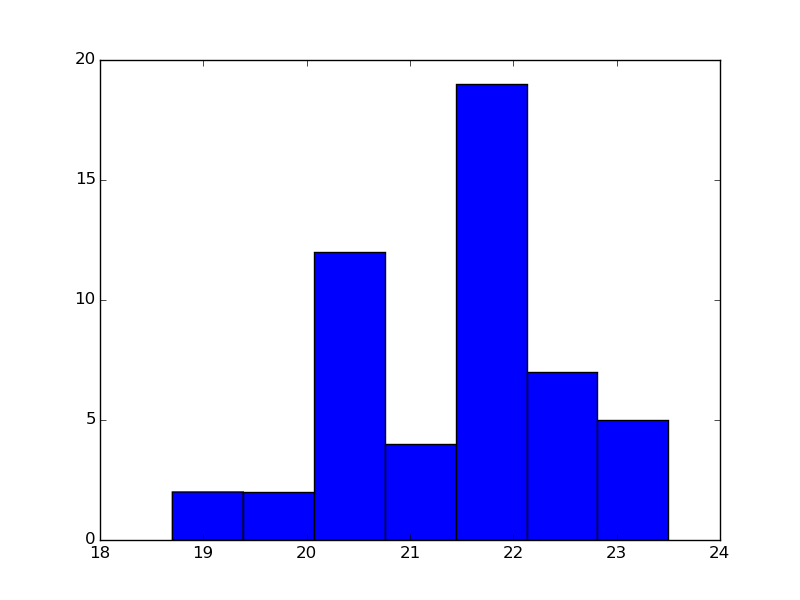
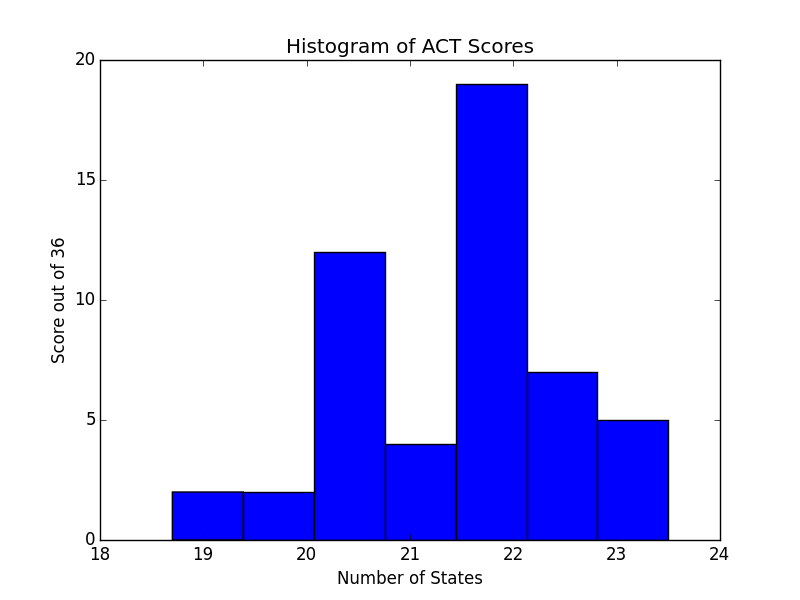
Re-rendered two images in lab 9.

diff --git a/labs/lab9.tex b/labs/lab9.tex
@@ -362,9 +362,9 @@ The color scheme is automatically picked according to size.
 \begin{pyconcode}
 >>> import random
 >>> import matplotlib.pyplot as plt
->>> x = [x + 1 for x in range(0,10)]
->>> y = [(elem + random.random()*10) \% 10 for elem in x]
->>> sizes = [x + random.random()*5 for x in range(30,1200,50)]
+>>> x = [x + 1 for x in range(0, 10)]
+>>> y = [(elem + random.random() * 10) % 10 for elem in x]
+>>> sizes = [200 * elem + random.random() * 9300 for elem in x]
 >>> plt.scatter(x, y, s=sizes, c=sizes, alpha=0.8)
 >>> plt.show()
 \end{pyconcode}
@@ -628,8 +628,9 @@ y = [10,20,15,5,-10]
 \end{ex}
 
 \begin{ex}[plotscores.py]
-  This exercise relies on the \texttt{readscores.py} file from the File I/O
-  lab. You may also rewrite that code using the CSV module.
+  This exercise relies on the \texttt{readscores.py} and
+\texttt{actsat.txt} files from the File I/O lab. You may also rewrite
+that code using the CSV module.
 
   Write a program that generates the following charts:
   \begin{enumerate}
@@ -655,10 +656,6 @@ labels should have the correct SAT or ACT score. See the example image.
   \includegraphics[width=\textwidth]{img/actsat_bars_all.png}
   \end{center}
 \end{ex}
-
-\begin{infobox}{Supplementary Files}
-The \texttt{actsat.txt} file is available on canvas as a lab 7 file.
-\end{infobox}
 
 \begin{ex}[plotcountries.py]
 Use matplotlib to draw scatter plots relating worldwide life expectancy,
